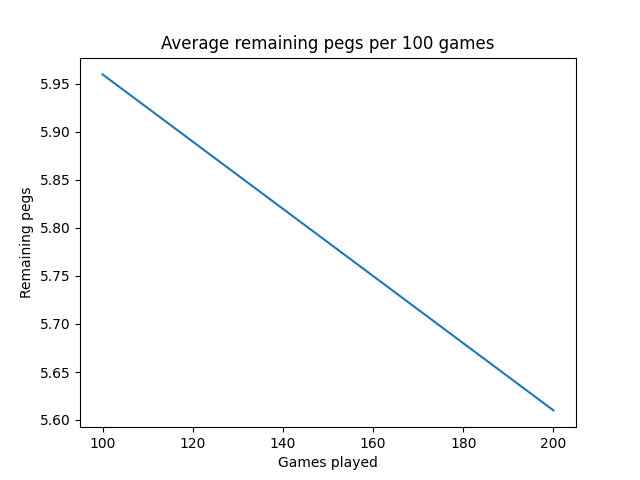
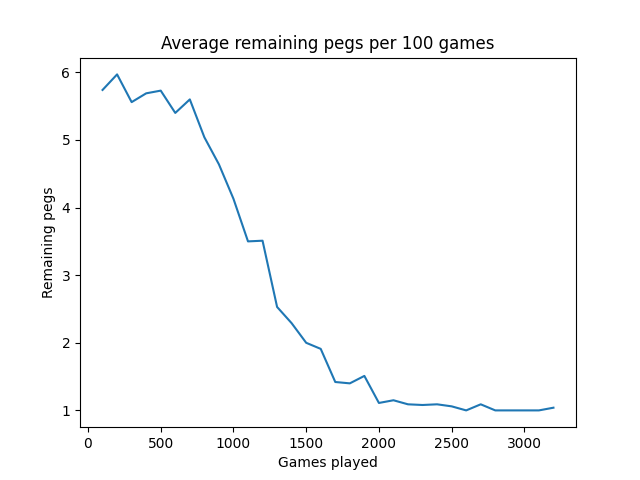
animation added

diff --git a/Helpers/plotters.py b/Helpers/plotters.py
@@ -57,19 +57,22 @@ class BoardVisualizer:
         nx.draw_networkx_nodes(G, positions, nodelist=red_nodes, node_color='r')
         nx.draw_networkx_edges(G, positions)
 
+        plt.axis('off')
         if self.output_path is not None:
             filepath = self.output_path + 'plots_last_episode/' + str(self.current_move) + '.png'
             self.filepaths.append(filepath)
-            plt.savefig(filepath)
+            plt.savefig(filepath, edgecolor='w')
         plt.show()
         self.current_move += 1
 
 
     def create_animation(self):
-        with imageio.get_writer('mygif.gif', mode='I') as writer:
+        animation_path = self.output_path + 'game.gif'
+        with imageio.get_writer(animation_path, mode='I') as writer:
             for filepath in self.filepaths:
-                image = imageio.imread(filepath)
-                writer.append_data(image)
+                for _ in range(10):
+                    image = imageio.imread(filepath)
+                    writer.append_data(image)
 
 
 def plot_mean_values(values, output_path=None):

diff --git a/configs/custom.py b/configs/custom.py
@@ -4,7 +4,7 @@ config = {
     'is_diamond': True,
     'size': 6,
     'empty_nodes': [[3, 2]],
-    'number_of_episodes': 200,
+    'number_of_episodes': 3200,
     'reward_win': 1000000000,
     'reward_lose': -100,
     'critic_table': True,
@@ -21,5 +21,5 @@ config = {
     'display_delay': 0.1,
     'display_games': "last",  # "all" | "last" | None
     # add output path to save outputs
-    'output_path': "images/example_run/"
+    'output_path': None,  # "images/example_run/"
 }
